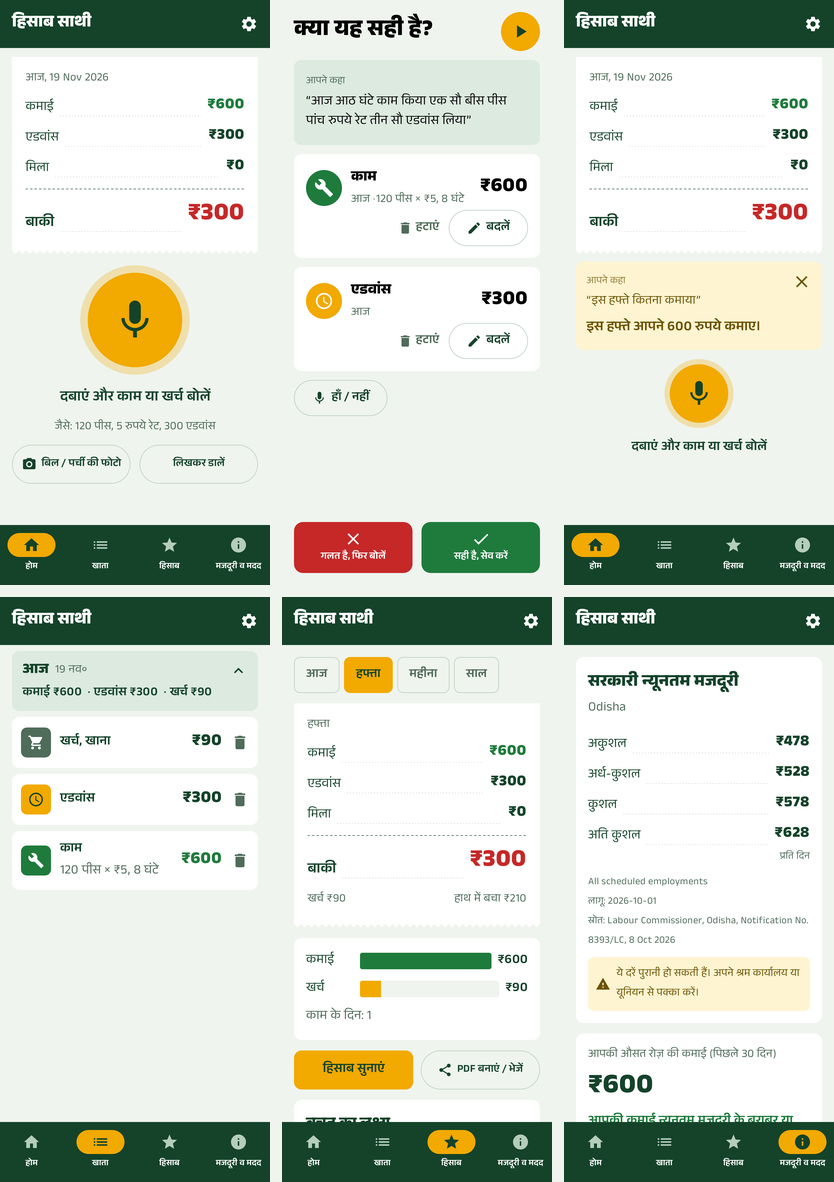
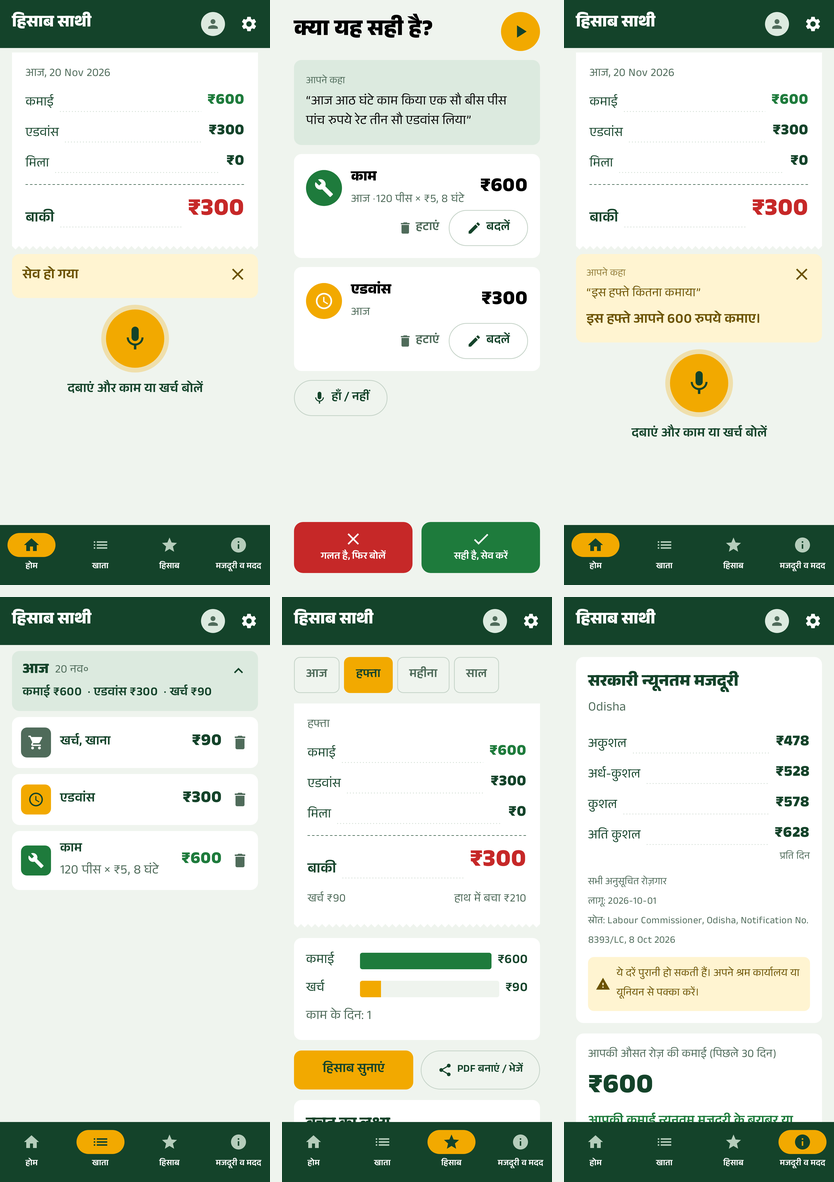
README: download button for 0.9.4, current screenshots; home buttons no longer cut off Tamil
The bill / slip button label in Telugu, Kannada and Tamil is shorter (like the Hindi one), and
two-line button labels get room for Indic scripts and an ellipsis instead of a half-cut line.

diff --git a/android/app/src/main/kotlin/com/acxelin/hisaabsaathi/ui/Screens.kt b/android/app/src/main/kotlin/com/acxelin/hisaabsaathi/ui/Screens.kt
@@ -76,6 +76,7 @@ import androidx.compose.ui.res.painterResource
 import androidx.compose.ui.text.font.FontWeight
 import androidx.compose.ui.text.input.KeyboardType
 import androidx.compose.ui.text.style.TextAlign
+import androidx.compose.ui.text.style.TextOverflow
 import androidx.compose.ui.unit.dp
 import androidx.compose.ui.unit.sp
 import androidx.lifecycle.compose.collectAsStateWithLifecycle
@@ -200,10 +201,10 @@ fun HomeScreen(vm: AppViewModel, settings: Settings, s: Strings, capture: Captur
             OutlinedButton(onClick = onScan, modifier = Modifier.weight(1f).heightIn(min = 52.dp), contentPadding = PaddingValues(horizontal = 10.dp, vertical = 6.dp)) {
                 Icon(painterResource(R.drawable.ic_camera), null, tint = Ink, modifier = Modifier.size(20.dp))
                 Spacer(Modifier.width(6.dp))
-                Text(s.scanBill, fontSize = 14.sp, lineHeight = 16.sp, maxLines = 2, textAlign = TextAlign.Center)
+                Text(s.scanBill, fontSize = 14.sp, lineHeight = 18.sp, maxLines = 2, overflow = TextOverflow.Ellipsis, textAlign = TextAlign.Center)
             }
             OutlinedButton(onClick = onType, modifier = Modifier.weight(1f).heightIn(min = 52.dp), contentPadding = PaddingValues(horizontal = 10.dp, vertical = 6.dp)) {
-                Text(s.typeInstead, fontSize = 14.sp, lineHeight = 16.sp, maxLines = 2, textAlign = TextAlign.Center)
+                Text(s.typeInstead, fontSize = 14.sp, lineHeight = 18.sp, maxLines = 2, overflow = TextOverflow.Ellipsis, textAlign = TextAlign.Center)
             }
         }
     }
@@ -570,7 +571,7 @@ fun SummaryScreen(vm: AppViewModel, settings: Settings, s: Strings) {
             BigButton(s.readAloud, Marigold, Modifier.weight(1f)) { vm.speakSummary(period) }
             OutlinedButton(onClick = { vm.exportPdf(period) }, modifier = Modifier.weight(1f).height(52.dp), contentPadding = PaddingValues(horizontal = 10.dp)) {
                 Icon(Icons.Default.Share, null, modifier = Modifier.size(20.dp)); Spacer(Modifier.width(6.dp))
-                Text(s.exportPdf, fontSize = 14.sp, lineHeight = 16.sp, maxLines = 2, textAlign = TextAlign.Center)
+                Text(s.exportPdf, fontSize = 14.sp, lineHeight = 18.sp, maxLines = 2, overflow = TextOverflow.Ellipsis, textAlign = TextAlign.Center)
             }
         }
 

diff --git a/android/core/src/main/kotlin/com/acxelin/hisaabsaathi/core/i18n/Ta.kt b/android/core/src/main/kotlin/com/acxelin/hisaabsaathi/core/i18n/Ta.kt
@@ -141,7 +141,7 @@ internal object Ta {
         "Listening… speak now" to "கேக்குறேன்… சொல்லுங்க",
         "Understanding…" to "புரிஞ்சுக்கிறேன்…",
         "Tap to stop" to "நிறுத்த அழுத்துங்க",
-        "Scan bill / advance slip" to "பில் / அட்வான்ஸ் சீட்டு போட்டோ",
+        "Scan bill / advance slip" to "பில் / சீட்டு போட்டோ",
         "Type instead" to "எழுதிப் போடுங்க",
         "e.g. 120 pieces, rate 5 rupees, 300 advance" to "உதாரணம்: 120 பீஸ், ரேட் 5 ரூபாய், 300 அட்வான்ஸ்",
         "Home" to "ஹோம்",

diff --git a/android/core/src/main/kotlin/com/acxelin/hisaabsaathi/core/i18n/Te.kt b/android/core/src/main/kotlin/com/acxelin/hisaabsaathi/core/i18n/Te.kt
@@ -145,7 +145,7 @@ internal object Te {
         "Listening… speak now" to "వింటున్నాను… చెప్పండి",
         "Understanding…" to "అర్థం చేసుకుంటున్నాను…",
         "Tap to stop" to "ఆపడానికి నొక్కండి",
-        "Scan bill / advance slip" to "బిల్లు / చీటీ ఫోటో తీయండి",
+        "Scan bill / advance slip" to "బిల్లు / చీటీ ఫోటో",
         "Type instead" to "టైప్ చేయండి",
         "e.g. 120 pieces, rate 5 rupees, 300 advance" to "ఉదా: 120 పీసులు, రేటు 5 రూపాయలు, 300 అడ్వాన్స్",
         "Home" to "హోమ్",

diff --git a/android/core/src/main/kotlin/com/acxelin/hisaabsaathi/core/i18n/Kn.kt b/android/core/src/main/kotlin/com/acxelin/hisaabsaathi/core/i18n/Kn.kt
@@ -145,7 +145,7 @@ internal object Kn {
         "Listening… speak now" to "ಕೇಳುತ್ತಿದ್ದೇನೆ… ಹೇಳಿ",
         "Understanding…" to "ಅರ್ಥ ಮಾಡಿಕೊಳ್ಳುತ್ತಿದ್ದೇನೆ…",
         "Tap to stop" to "ನಿಲ್ಲಿಸಲು ಒತ್ತಿ",
-        "Scan bill / advance slip" to "ಬಿಲ್ / ಅಡ್ವಾನ್ಸ್ ಚೀಟಿ ಫೋಟೋ",
+        "Scan bill / advance slip" to "ಬಿಲ್ / ಚೀಟಿ ಫೋಟೋ",
         "Type instead" to "ಬರೆದು ಹಾಕಿ",
         "e.g. 120 pieces, rate 5 rupees, 300 advance" to "ಉದಾ: 120 ಪೀಸ್, ರೇಟ್ 5 ರೂಪಾಯಿ, 300 ಅಡ್ವಾನ್ಸ್",
         "Home" to "ಹೋಮ್",

diff --git a/README.md b/README.md
@@ -3,7 +3,7 @@
 </p>
 
 <p align="center">
-  <a href="https://huggingface.co/AcxelinLabs/hisaabsaathi-model/resolve/main/HisaabSaathi.apk"><img src="docs/brand/download-app.png" alt="Download HisaabSaathi: v0.9.3, Android 10+" height="72"></a>
+  <a href="https://huggingface.co/AcxelinLabs/hisaabsaathi-model/resolve/main/HisaabSaathi.apk"><img src="docs/brand/download-app.png" alt="Download HisaabSaathi: v0.9.4, Android 10+" height="72"></a>
 </p>
 
 <p align="center">
